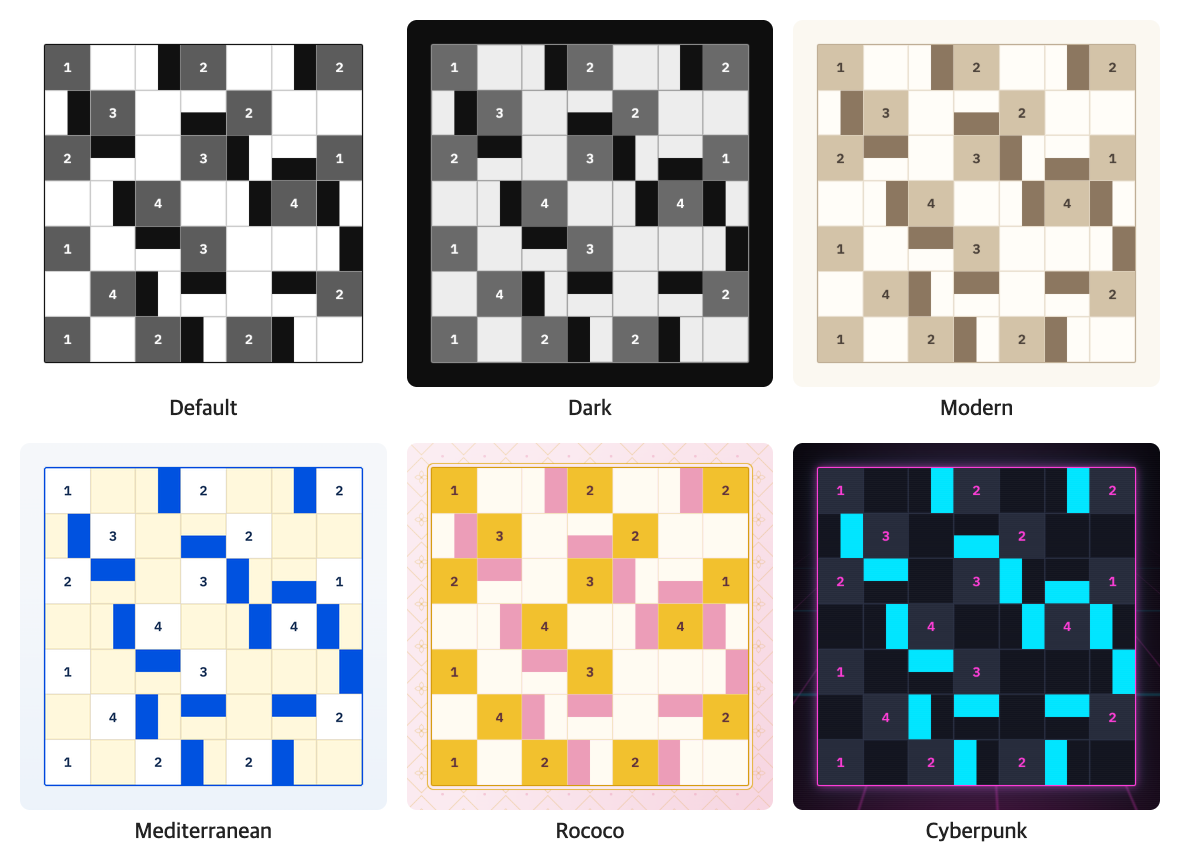
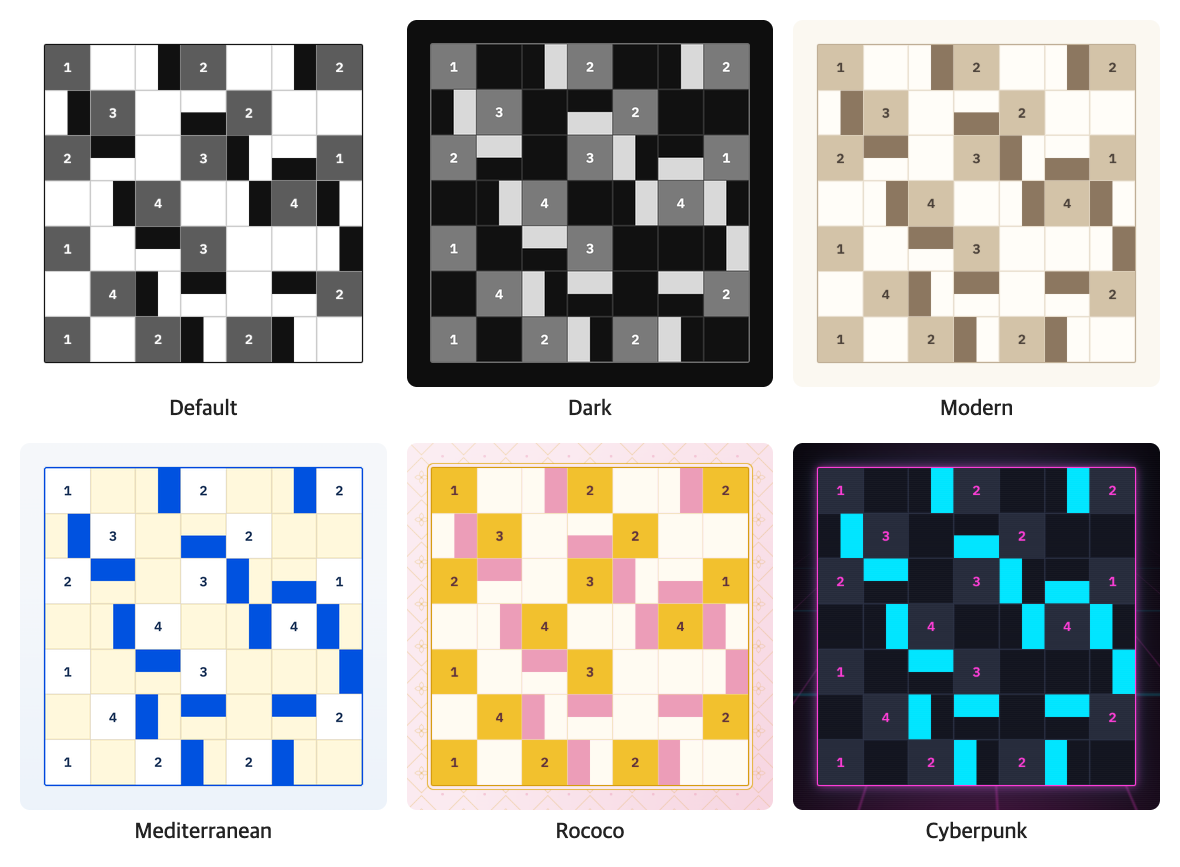
도구 단축키 추가, 규칙·조작법 문구 변경, README 다크 테마 스크린샷 갱신
- 단축키: D/F/G(문·메모 순환), 누른 채 1~4로 개별 도구, L 잠금, E 지우개. 툴팁에 표시
- 규칙 7번(회색 칸은 메모) 추가, 문고리 규칙은 8번으로. 조작법 전체 교체 (14개 언어)
- README: 단축키 표, 규칙 7번, 룸 클릭 설명 갱신 (ko/en/ja)
- themes.png의 다크 테마 칸을 새 색상으로 교체

Changed region(s): [[0.3661, 0.0311, 0.6407, 0.436]]

diff --git a/index.html b/index.html
@@ -440,6 +440,7 @@
     gap:6px;
   }
   .legend li::marker{ color:var(--ink); font-weight:600; }
+  .legend li.shortcut-line{ margin-top:8px; }
   /* ---- start screen ---- */
   .start-card{
     border-bottom:1px solid var(--line);
@@ -2172,13 +2173,16 @@
         '<li><strong>룸의 숫자값</strong>은 상하좌우로 <strong>맞닿은 문의 면적</strong>과 같아야 한다.</li>' +
         '<li>모든 <strong>문</strong>은 반드시 하나 이상의 <strong>룸과 닿아있어야</strong> 한다.</li>' +
         '<li>모든 <strong>문은 다른 문과 닿을 수 없다.</strong></li>' +
-        '<li>모든 빈칸에는 문이 들어가야 한다.</li>',
+        '<li>모든 빈칸에는 문이 들어가야 한다.</li>' +
+        '<li>회색으로 된 칸은 풀이를 위한 표기용 칸으로, \'문\'이 아니다.</li>',
       controlsTitle: '조작법',
       controlsBody:
         '<li>빈칸을 클릭하면 <strong>위 → 아래 → 왼쪽 → 오른쪽 → 빈칸</strong> 순서로 문의 방향이 바뀐다.</li>' +
-        '<li>상단의 문 선택 도구를 이용해 특정 방향의 문을 놓을 수 있다. 지우개를 누르면 선택한 칸의 문을 지울 수 있다.</li>' +
-        '<li>칸을 <strong>우클릭 또는 길게 클릭하면 잠긴다.</strong> 잠긴 칸은 배치가 바뀌지 않는다. 다시 잠금을 시도하면 잠금이 풀린다.</li>' +
-        '<li>회색으로 된 칸은 풀이를 위한 표기용 칸으로, \'문\'이 아니다.</li>',
+        '<li><strong>메모</strong> 도구 <strong>두 종</strong>을 선택하여 칸에 <strong>풀이용 메모</strong>를 남길 수 있다.</li>' +
+        '<li><strong>자물쇠</strong> 도구를 선택하여 칸을 <strong>잠글</strong> 수 있다. <strong>우클릭 또는 길게 클릭</strong>하여 잠그는 것도 가능하다.</li>' +
+        '<li><strong>지우개</strong>를 누르면 선택한 칸의 문을 지울 수 있다.</li>' +
+        '<li><strong>도구창을 열어</strong> 더 다양한 종류의 도구를 선택할 수 있다.</li>' +
+        '<li class="shortcut-line"><strong>단축키: 문 - D&nbsp;&nbsp;&nbsp;메모1 - F&nbsp;&nbsp;&nbsp;메모2 - G&nbsp;&nbsp;&nbsp;잠금 - L&nbsp;&nbsp;&nbsp;지우개 - E</strong></li>',
       modeTitle: '모드',
       modePlain: '문고리 없음',
       modeKnob: '문고리 있음',
@@ -2237,13 +2241,16 @@
         '<li><strong>A room\'s number</strong> must equal the total <strong>door area touching it</strong> above, below, left, and right.</li>' +
         '<li>Every <strong>door</strong> must <strong>touch at least one room</strong>.</li>' +
         '<li><strong>Doors cannot touch other doors.</strong></li>' +
-        '<li>Every empty cell must contain a door.</li>',
+        '<li>Every empty cell must contain a door.</li>' +
+        '<li>Gray marks are notes for solving, not doors.</li>',
       controlsTitle: 'How to play',
       controlsBody:
         '<li>Click an empty cell to cycle the door direction: <strong>Up → Down → Left → Right → Empty</strong>.</li>' +
-        '<li>Use the door tools at the top to place a door facing a specific direction. Pick the eraser to clear the door in a cell you click.</li>' +
-        '<li><strong>Right-click or long-press a cell to lock it.</strong> A locked cell can\'t be changed. Lock it again to unlock.</li>' +
-        '<li>Gray marks are notes for solving, not doors.</li>',
+        '<li>Pick one of the <strong>two note</strong> tools to leave <strong>solving notes</strong> in cells.</li>' +
+        '<li>Pick the <strong>lock</strong> tool to <strong>lock</strong> cells. You can also lock a cell by <strong>right-clicking or long-pressing</strong> it.</li>' +
+        '<li>Pick the <strong>eraser</strong> to clear the door in a cell you click.</li>' +
+        '<li><strong>Open the tool panel</strong> for more kinds of tools.</li>' +
+        '<li class="shortcut-line"><strong>Shortcuts: Door - D&nbsp;&nbsp;&nbsp;Note 1 - F&nbsp;&nbsp;&nbsp;Note 2 - G&nbsp;&nbsp;&nbsp;Lock - L&nbsp;&nbsp;&nbsp;Eraser - E</strong></li>',
       modeTitle: 'Mode',
       modePlain: 'No doorknobs',
       modeKnob: 'With doorknobs',
@@ -2296,9 +2303,9 @@
       themeCyber: "サイバーパンク",
       themeIvory: "モダン",
       rulesTitle: "ルール",
-      rulesBody: "<li>数字が書かれたマスは<strong>「ルーム」</strong>、置くことのできる黒い半マスは<strong>「ドア」</strong>です。</li><li>ルームの配置は変えられません。</li><li><strong>ルームの数字</strong>は、上下左右に<strong>接しているドアの面積</strong>の合計と同じでなければなりません。</li><li>すべての<strong>ドア</strong>は、必ず1つ以上の<strong>ルームに接していなければなりません</strong>。</li><li><strong>ドア同士は接することができません。</strong></li><li>すべての空きマスにドアを置かなければなりません。</li>",
+      rulesBody: "<li>数字が書かれたマスは<strong>「ルーム」</strong>、置くことのできる黒い半マスは<strong>「ドア」</strong>です。</li><li>ルームの配置は変えられません。</li><li><strong>ルームの数字</strong>は、上下左右に<strong>接しているドアの面積</strong>の合計と同じでなければなりません。</li><li>すべての<strong>ドア</strong>は、必ず1つ以上の<strong>ルームに接していなければなりません</strong>。</li><li><strong>ドア同士は接することができません。</strong></li><li>すべての空きマスにドアを置かなければなりません。</li><li>グレーのマスは解答用のメモで、「ドア」ではありません。</li>",
       controlsTitle: "操作方法",
-      controlsBody: "<li>空きマスをクリックすると、<strong>上 → 下 → 左 → 右 → 空白</strong>の順にドアの向きが変わります。</li><li>上部のドアツールで特定の向きのドアを置けます。消しゴムを選ぶと、クリックしたマスのドアを消せます。</li><li>マスを<strong>右クリックまたは長押しするとロックされます。</strong>ロックしたマスは変わりません。もう一度ロックすると解除されます。</li><li>グレーのマスは解答用のメモで、「ドア」ではありません。</li>",
+      controlsBody: "<li>空きマスをクリックすると、<strong>上 → 下 → 左 → 右 → 空白</strong>の順にドアの向きが変わります。</li><li><strong>2種類</strong>の<strong>メモ</strong>ツールで、マスに<strong>解答用のメモ</strong>を残せます。</li><li><strong>鍵</strong>ツールでマスを<strong>ロック</strong>できます。<strong>右クリックまたは長押し</strong>でもロックできます。</li><li><strong>消しゴム</strong>を選ぶと、クリックしたマスのドアを消せます。</li><li><strong>ツール欄を開く</strong>と、さらに多くのツールを選べます。</li><li class=\"shortcut-line\"><strong>ショートカット：ドア - D&nbsp;&nbsp;&nbsp;メモ1 - F&nbsp;&nbsp;&nbsp;メモ2 - G&nbsp;&nbsp;&nbsp;ロック - L&nbsp;&nbsp;&nbsp;消しゴム - E</strong></li>",
       modeTitle: "モード",
       modePlain: "ドアノブなし",
       modeKnob: "ドアノブあり",
@@ -2351,9 +2358,9 @@
       themeCyber: "赛博朋克",
       themeIvory: "现代",
       rulesTitle: "规则",
-      rulesBody: "<li>写有数字的格子是<strong>“房间”</strong>，可以放置的黑色半格是<strong>“门”</strong>。</li><li>房间的位置不能改变。</li><li><strong>房间的数字</strong>必须等于其上下左右<strong>相邻门的面积</strong>之和。</li><li>每一扇<strong>门</strong>都必须<strong>至少与一个房间相邻</strong>。</li><li><strong>门与门不能相邻。</strong></li><li>所有空格都必须放入门。</li>",
+      rulesBody: "<li>写有数字的格子是<strong>“房间”</strong>，可以放置的黑色半格是<strong>“门”</strong>。</li><li>房间的位置不能改变。</li><li><strong>房间的数字</strong>必须等于其上下左右<strong>相邻门的面积</strong>之和。</li><li>每一扇<strong>门</strong>都必须<strong>至少与一个房间相邻</strong>。</li><li><strong>门与门不能相邻。</strong></li><li>所有空格都必须放入门。</li><li>灰色的格子是解题用的标记，不是“门”。</li>",
       controlsTitle: "操作方法",
-      controlsBody: "<li>点击空格，门的方向会按<strong>上 → 下 → 左 → 右 → 空白</strong>的顺序切换。</li><li>使用上方的门工具可以放置指定方向的门。选择橡皮擦后，点击格子即可擦除其中的门。</li><li><strong>右键点击或长按格子即可锁定。</strong>锁定的格子不会被更改。再次锁定即可解锁。</li><li>灰色的格子是解题用的标记，不是“门”。</li>",
+      controlsBody: "<li>点击空格，门的方向会按<strong>上 → 下 → 左 → 右 → 空白</strong>的顺序切换。</li><li>选择<strong>两种标记</strong>工具之一，可在格子中留下<strong>解题标记</strong>。</li><li>选择<strong>锁</strong>工具可以<strong>锁定</strong>格子。也可以<strong>右键点击或长按</strong>格子来锁定。</li><li>选择<strong>橡皮擦</strong>后，点击格子即可擦除其中的门。</li><li><strong>展开工具栏</strong>可以选择更多种类的工具。</li><li class=\"shortcut-line\"><strong>快捷键：门 - D&nbsp;&nbsp;&nbsp;标记1 - F&nbsp;&nbsp;&nbsp;标记2 - G&nbsp;&nbsp;&nbsp;锁定 - L&nbsp;&nbsp;&nbsp;橡皮擦 - E</strong></li>",
       modeTitle: "模式",
       modePlain: "无门把手",
       modeKnob: "有门把手",
@@ -2406,9 +2413,9 @@
       themeCyber: "賽博龐克",
       themeIvory: "現代",
       rulesTitle: "規則",
-      rulesBody: "<li>寫有數字的格子是<strong>「房間」</strong>，可以放置的黑色半格是<strong>「門」</strong>。</li><li>房間的位置不能改變。</li><li><strong>房間的數字</strong>必須等於其上下左右<strong>相鄰門的面積</strong>總和。</li><li>每一扇<strong>門</strong>都必須<strong>至少與一個房間相鄰</strong>。</li><li><strong>門與門不能相鄰。</strong></li><li>所有空格都必須放入門。</li>",
+      rulesBody: "<li>寫有數字的格子是<strong>「房間」</strong>，可以放置的黑色半格是<strong>「門」</strong>。</li><li>房間的位置不能改變。</li><li><strong>房間的數字</strong>必須等於其上下左右<strong>相鄰門的面積</strong>總和。</li><li>每一扇<strong>門</strong>都必須<strong>至少與一個房間相鄰</strong>。</li><li><strong>門與門不能相鄰。</strong></li><li>所有空格都必須放入門。</li><li>灰色的格子是解題用的標記，不是「門」。</li>",
       controlsTitle: "操作方式",
-      controlsBody: "<li>點擊空格，門的方向會依<strong>上 → 下 → 左 → 右 → 空白</strong>的順序切換。</li><li>使用上方的門工具可以放置指定方向的門。選擇橡皮擦後，點擊格子即可擦除其中的門。</li><li><strong>右鍵點擊或長按格子即可鎖定。</strong>鎖定的格子不會被更改。再次鎖定即可解鎖。</li><li>灰色的格子是解題用的標記，不是「門」。</li>",
+      controlsBody: "<li>點擊空格，門的方向會依<strong>上 → 下 → 左 → 右 → 空白</strong>的順序切換。</li><li>選擇<strong>兩種標記</strong>工具之一，可在格子中留下<strong>解題標記</strong>。</li><li>選擇<strong>鎖</strong>工具可以<strong>鎖定</strong>格子。也可以<strong>右鍵點擊或長按</strong>格子來鎖定。</li><li>選擇<strong>橡皮擦</strong>後，點擊格子即可擦除其中的門。</li><li><strong>展開工具列</strong>可以選擇更多種類的工具。</li><li class=\"shortcut-line\"><strong>快速鍵：門 - D&nbsp;&nbsp;&nbsp;標記1 - F&nbsp;&nbsp;&nbsp;標記2 - G&nbsp;&nbsp;&nbsp;鎖定 - L&nbsp;&nbsp;&nbsp;橡皮擦 - E</strong></li>",
       modeTitle: "模式",
       modePlain: "無門把",
       modeKnob: "有門把",
@@ -2461,9 +2468,9 @@
       themeCyber: "Ciberpunk",
       themeIvory: "Moderno",
       rulesTitle: "Reglas",
-      rulesBody: "<li>Una casilla con número es una <strong>Habitación</strong>; una media casilla negra que colocas es una <strong>Puerta</strong>.</li><li>Las habitaciones son fijas y no se pueden cambiar.</li><li><strong>El número de una habitación</strong> debe ser igual al <strong>área total de puertas que la tocan</strong> arriba, abajo, a la izquierda y a la derecha.</li><li>Cada <strong>puerta</strong> debe <strong>tocar al menos una habitación</strong>.</li><li><strong>Las puertas no pueden tocar otras puertas.</strong></li><li>Todas las casillas vacías deben contener una puerta.</li>",
+      rulesBody: "<li>Una casilla con número es una <strong>Habitación</strong>; una media casilla negra que colocas es una <strong>Puerta</strong>.</li><li>Las habitaciones son fijas y no se pueden cambiar.</li><li><strong>El número de una habitación</strong> debe ser igual al <strong>área total de puertas que la tocan</strong> arriba, abajo, a la izquierda y a la derecha.</li><li>Cada <strong>puerta</strong> debe <strong>tocar al menos una habitación</strong>.</li><li><strong>Las puertas no pueden tocar otras puertas.</strong></li><li>Todas las casillas vacías deben contener una puerta.</li><li>Las marcas grises son notas para resolver, no puertas.</li>",
       controlsTitle: "Cómo jugar",
-      controlsBody: "<li>Haz clic en una casilla vacía para cambiar la dirección de la puerta: <strong>Arriba → Abajo → Izquierda → Derecha → Vacía</strong>.</li><li>Usa las herramientas de puerta de arriba para colocar una puerta en una dirección concreta. Elige el borrador para quitar la puerta de la casilla que pulses.</li><li><strong>Haz clic derecho o mantén pulsada una casilla para bloquearla.</strong> Una casilla bloqueada no se puede cambiar. Bloquéala de nuevo para desbloquearla.</li><li>Las marcas grises son notas para resolver, no puertas.</li>",
+      controlsBody: "<li>Haz clic en una casilla vacía para cambiar la dirección de la puerta: <strong>Arriba → Abajo → Izquierda → Derecha → Vacía</strong>.</li><li>Elige una de las <strong>dos</strong> herramientas de <strong>notas</strong> para dejar <strong>notas de resolución</strong> en las casillas.</li><li>Elige la herramienta de <strong>candado</strong> para <strong>bloquear</strong> casillas. También puedes bloquear una casilla con <strong>clic derecho o manteniéndola pulsada</strong>.</li><li>Elige el <strong>borrador</strong> para quitar la puerta de la casilla que pulses.</li><li><strong>Abre el panel de herramientas</strong> para elegir más tipos de herramientas.</li><li class=\"shortcut-line\"><strong>Atajos: Puerta - D&nbsp;&nbsp;&nbsp;Nota 1 - F&nbsp;&nbsp;&nbsp;Nota 2 - G&nbsp;&nbsp;&nbsp;Bloquear - L&nbsp;&nbsp;&nbsp;Borrador - E</strong></li>",
       modeTitle: "Modo",
       modePlain: "Sin pomos",
       modeKnob: "Con pomos",
@@ -2516,9 +2523,9 @@
       themeCyber: "Cyberpunk",
       themeIvory: "Moderne",
       rulesTitle: "Règles",
-      rulesBody: "<li>Une case avec un nombre est une <strong>Pièce</strong> ; une demi-case noire que vous placez est une <strong>Porte</strong>.</li><li>Les pièces sont fixes et ne peuvent pas être modifiées.</li><li><strong>Le nombre d’une pièce</strong> doit être égal à la <strong>surface totale des portes qui la touchent</strong> en haut, en bas, à gauche et à droite.</li><li>Chaque <strong>porte</strong> doit <strong>toucher au moins une pièce</strong>.</li><li><strong>Les portes ne peuvent pas se toucher entre elles.</strong></li><li>Chaque case vide doit contenir une porte.</li>",
+      rulesBody: "<li>Une case avec un nombre est une <strong>Pièce</strong> ; une demi-case noire que vous placez est une <strong>Porte</strong>.</li><li>Les pièces sont fixes et ne peuvent pas être modifiées.</li><li><strong>Le nombre d’une pièce</strong> doit être égal à la <strong>surface totale des portes qui la touchent</strong> en haut, en bas, à gauche et à droite.</li><li>Chaque <strong>porte</strong> doit <strong>toucher au moins une pièce</strong>.</li><li><strong>Les portes ne peuvent pas se toucher entre elles.</strong></li><li>Chaque case vide doit contenir une porte.</li><li>Les marques grises sont des notes pour résoudre, pas des portes.</li>",
       controlsTitle: "Comment jouer",
-      controlsBody: "<li>Cliquez sur une case vide pour changer l’orientation de la porte : <strong>Haut → Bas → Gauche → Droite → Vide</strong>.</li><li>Utilisez les outils de porte en haut pour placer une porte dans une direction précise. Choisissez la gomme pour effacer la porte de la case cliquée.</li><li><strong>Faites un clic droit ou un appui long sur une case pour la verrouiller.</strong> Une case verrouillée ne peut pas être modifiée. Verrouillez-la à nouveau pour la déverrouiller.</li><li>Les marques grises sont des notes pour résoudre, pas des portes.</li>",
+      controlsBody: "<li>Cliquez sur une case vide pour changer l’orientation de la porte : <strong>Haut → Bas → Gauche → Droite → Vide</strong>.</li><li>Choisissez l’un des <strong>deux</strong> outils de <strong>notes</strong> pour laisser des <strong>notes de résolution</strong> dans les cases.</li><li>Choisissez l’outil <strong>cadenas</strong> pour <strong>verrouiller</strong> des cases. Vous pouvez aussi verrouiller une case par un <strong>clic droit ou un appui long</strong>.</li><li>Choisissez la <strong>gomme</strong> pour effacer la porte de la case cliquée.</li><li><strong>Ouvrez le panneau d’outils</strong> pour choisir parmi plus d’outils.</li><li class=\"shortcut-line\"><strong>Raccourcis : Porte - D&nbsp;&nbsp;&nbsp;Note 1 - F&nbsp;&nbsp;&nbsp;Note 2 - G&nbsp;&nbsp;&nbsp;Verrou - L&nbsp;&nbsp;&nbsp;Gomme - E</strong></li>",
       modeTitle: "Mode",
       modePlain: "Sans poignées",
       modeKnob: "Avec poignées",
@@ -2571,9 +2578,9 @@
       themeCyber: "Cyberpunk",
       themeIvory: "Modern",
       rulesTitle: "Regeln",
-      rulesBody: "<li>Ein Feld mit einer Zahl ist ein <strong>Raum</strong>; ein schwarzes Halbfeld, das du setzt, ist eine <strong>Tür</strong>.</li><li>Räume sind fest und können nicht verändert werden.</li><li><strong>Die Zahl eines Raums</strong> muss der <strong>Gesamtfläche der angrenzenden Türen</strong> oben, unten, links und rechts entsprechen.</li><li>Jede <strong>Tür</strong> muss <strong>mindestens einen Raum berühren</strong>.</li><li><strong>Türen dürfen andere Türen nicht berühren.</strong></li><li>Jedes leere Feld muss eine Tür enthalten.</li>",
+      rulesBody: "<li>Ein Feld mit einer Zahl ist ein <strong>Raum</strong>; ein schwarzes Halbfeld, das du setzt, ist eine <strong>Tür</strong>.</li><li>Räume sind fest und können nicht verändert werden.</li><li><strong>Die Zahl eines Raums</strong> muss der <strong>Gesamtfläche der angrenzenden Türen</strong> oben, unten, links und rechts entsprechen.</li><li>Jede <strong>Tür</strong> muss <strong>mindestens einen Raum berühren</strong>.</li><li><strong>Türen dürfen andere Türen nicht berühren.</strong></li><li>Jedes leere Feld muss eine Tür enthalten.</li><li>Graue Markierungen sind Notizen zum Lösen, keine Türen.</li>",
       controlsTitle: "Spielanleitung",
-      controlsBody: "<li>Klicke auf ein leeres Feld, um die Türrichtung zu wechseln: <strong>Oben → Unten → Links → Rechts → Leer</strong>.</li><li>Mit den Türwerkzeugen oben setzt du eine Tür in eine bestimmte Richtung. Wähle den Radierer, um die Tür im angeklickten Feld zu löschen.</li><li><strong>Rechtsklick oder langes Drücken sperrt ein Feld.</strong> Ein gesperrtes Feld kann nicht verändert werden. Erneutes Sperren hebt die Sperre auf.</li><li>Graue Markierungen sind Notizen zum Lösen, keine Türen.</li>",
+      controlsBody: "<li>Klicke auf ein leeres Feld, um die Türrichtung zu wechseln: <strong>Oben → Unten → Links → Rechts → Leer</strong>.</li><li>Mit den <strong>zwei Notizwerkzeugen</strong> hinterlässt du <strong>Lösungsnotizen</strong> in Feldern.</li><li>Mit dem <strong>Schloss</strong>-Werkzeug kannst du Felder <strong>sperren</strong>. Auch <strong>Rechtsklick oder langes Drücken</strong> sperrt ein Feld.</li><li>Wähle den <strong>Radierer</strong>, um die Tür im angeklickten Feld zu löschen.</li><li><strong>Öffne die Werkzeugleiste</strong>, um weitere Werkzeuge zu wählen.</li><li class=\"shortcut-line\"><strong>Tastenkürzel: Tür - D&nbsp;&nbsp;&nbsp;Notiz 1 - F&nbsp;&nbsp;&nbsp;Notiz 2 - G&nbsp;&nbsp;&nbsp;Sperren - L&nbsp;&nbsp;&nbsp;Radierer - E</strong></li>",
       modeTitle: "Modus",
       modePlain: "Ohne Türknäufe",
       modeKnob: "Mit Türknäufen",
@@ -2626,9 +2633,9 @@
       themeCyber: "Cyberpunk",
       themeIvory: "Moderno",
       rulesTitle: "Regras",
-      rulesBody: "<li>Uma casa com número é um <strong>Quarto</strong>; uma meia casa preta que você coloca é uma <strong>Porta</strong>.</li><li>Os quartos são fixos e não podem ser alterados.</li><li><strong>O número de um quarto</strong> deve ser igual à <strong>área total de portas que o tocam</strong> acima, abaixo, à esquerda e à direita.</li><li>Toda <strong>porta</strong> deve <strong>tocar pelo menos um quarto</strong>.</li><li><strong>Portas não podem tocar outras portas.</strong></li><li>Toda casa vazia deve conter uma porta.</li>",
+      rulesBody: "<li>Uma casa com número é um <strong>Quarto</strong>; uma meia casa preta que você coloca é uma <strong>Porta</strong>.</li><li>Os quartos são fixos e não podem ser alterados.</li><li><strong>O número de um quarto</strong> deve ser igual à <strong>área total de portas que o tocam</strong> acima, abaixo, à esquerda e à direita.</li><li>Toda <strong>porta</strong> deve <strong>tocar pelo menos um quarto</strong>.</li><li><strong>Portas não podem tocar outras portas.</strong></li><li>Toda casa vazia deve conter uma porta.</li><li>As marcas cinzas são anotações para resolver, não portas.</li>",
       controlsTitle: "Como jogar",
-      controlsBody: "<li>Clique em uma casa vazia para alternar a direção da porta: <strong>Cima → Baixo → Esquerda → Direita → Vazia</strong>.</li><li>Use as ferramentas de porta no topo para colocar uma porta numa direção específica. Escolha a borracha para apagar a porta da casa clicada.</li><li><strong>Clique com o botão direito ou pressione e segure uma casa para bloqueá-la.</strong> Uma casa bloqueada não pode ser alterada. Bloqueie de novo para desbloquear.</li><li>As marcas cinzas são anotações para resolver, não portas.</li>",
+      controlsBody: "<li>Clique em uma casa vazia para alternar a direção da porta: <strong>Cima → Baixo → Esquerda → Direita → Vazia</strong>.</li><li>Escolha uma das <strong>duas</strong> ferramentas de <strong>anotação</strong> para deixar <strong>anotações de resolução</strong> nas casas.</li><li>Escolha a ferramenta de <strong>cadeado</strong> para <strong>bloquear</strong> casas. Também dá para bloquear com <strong>clique direito ou pressionando e segurando</strong> a casa.</li><li>Escolha a <strong>borracha</strong> para apagar a porta da casa clicada.</li><li><strong>Abra o painel de ferramentas</strong> para escolher mais tipos de ferramentas.</li><li class=\"shortcut-line\"><strong>Atalhos: Porta - D&nbsp;&nbsp;&nbsp;Anotação 1 - F&nbsp;&nbsp;&nbsp;Anotação 2 - G&nbsp;&nbsp;&nbsp;Bloquear - L&nbsp;&nbsp;&nbsp;Borracha - E</strong></li>",
       modeTitle: "Modo",
       modePlain: "Sem maçanetas",
       modeKnob: "Com maçanetas",
@@ -2681,9 +2688,9 @@
       themeCyber: "Киберпанк",
       themeIvory: "Модерн",
       rulesTitle: "Правила",
-      rulesBody: "<li>Клетка с числом — это <strong>Комната</strong>; чёрная полуклетка, которую вы ставите, — это <strong>Дверь</strong>.</li><li>Комнаты зафиксированы, их нельзя изменить.</li><li><strong>Число комнаты</strong> должно быть равно <strong>общей площади дверей, касающихся её</strong> сверху, снизу, слева и справа.</li><li>Каждая <strong>дверь</strong> должна <strong>касаться хотя бы одной комнаты</strong>.</li><li><strong>Двери не могут касаться друг друга.</strong></li><li>В каждой пустой клетке должна быть дверь.</li>",
+      rulesBody: "<li>Клетка с числом — это <strong>Комната</strong>; чёрная полуклетка, которую вы ставите, — это <strong>Дверь</strong>.</li><li>Комнаты зафиксированы, их нельзя изменить.</li><li><strong>Число комнаты</strong> должно быть равно <strong>общей площади дверей, касающихся её</strong> сверху, снизу, слева и справа.</li><li>Каждая <strong>дверь</strong> должна <strong>касаться хотя бы одной комнаты</strong>.</li><li><strong>Двери не могут касаться друг друга.</strong></li><li>В каждой пустой клетке должна быть дверь.</li><li>Серые отметки — это заметки для решения, а не двери.</li>",
       controlsTitle: "Как играть",
-      controlsBody: "<li>Нажмите на пустую клетку, чтобы менять направление двери: <strong>Вверх → Вниз → Влево → Вправо → Пусто</strong>.</li><li>Инструменты дверей вверху ставят дверь в нужном направлении. Выберите ластик, чтобы стереть дверь в нажатой клетке.</li><li><strong>Правый клик или долгое нажатие блокирует клетку.</strong> Заблокированную клетку нельзя изменить. Повторная блокировка снимает её.</li><li>Серые отметки — это заметки для решения, а не двери.</li>",
+      controlsBody: "<li>Нажмите на пустую клетку, чтобы менять направление двери: <strong>Вверх → Вниз → Влево → Вправо → Пусто</strong>.</li><li>Выберите один из <strong>двух</strong> инструментов <strong>заметок</strong>, чтобы оставлять в клетках <strong>заметки для решения</strong>.</li><li>Выберите инструмент <strong>замок</strong>, чтобы <strong>блокировать</strong> клетки. Заблокировать клетку можно и <strong>правым кликом или долгим нажатием</strong>.</li><li>Выберите <strong>ластик</strong>, чтобы стереть дверь в нажатой клетке.</li><li><strong>Откройте панель инструментов</strong>, чтобы выбрать больше инструментов.</li><li class=\"shortcut-line\"><strong>Горячие клавиши: Дверь - D&nbsp;&nbsp;&nbsp;Заметка 1 - F&nbsp;&nbsp;&nbsp;Заметка 2 - G&nbsp;&nbsp;&nbsp;Замок - L&nbsp;&nbsp;&nbsp;Ластик - E</strong></li>",
       modeTitle: "Режим",
       modePlain: "Без ручек",
       modeKnob: "С ручками",
@@ -2736,9 +2743,9 @@
       themeCyber: "Cyberpunk",
       themeIvory: "Moderno",
       rulesTitle: "Regole",
-      rulesBody: "<li>Una casella con un numero è una <strong>Stanza</strong>; una mezza casella nera che posizioni è una <strong>Porta</strong>.</li><li>Le stanze sono fisse e non si possono modificare.</li><li><strong>Il numero di una stanza</strong> deve essere uguale all’<strong>area totale delle porte che la toccano</strong> sopra, sotto, a sinistra e a destra.</li><li>Ogni <strong>porta</strong> deve <strong>toccare almeno una stanza</strong>.</li><li><strong>Le porte non possono toccare altre porte.</strong></li><li>Ogni casella vuota deve contenere una porta.</li>",
+      rulesBody: "<li>Una casella con un numero è una <strong>Stanza</strong>; una mezza casella nera che posizioni è una <strong>Porta</strong>.</li><li>Le stanze sono fisse e non si possono modificare.</li><li><strong>Il numero di una stanza</strong> deve essere uguale all’<strong>area totale delle porte che la toccano</strong> sopra, sotto, a sinistra e a destra.</li><li>Ogni <strong>porta</strong> deve <strong>toccare almeno una stanza</strong>.</li><li><strong>Le porte non possono toccare altre porte.</strong></li><li>Ogni casella vuota deve contenere una porta.</li><li>I segni grigi sono appunti per la risoluzione, non porte.</li>",
       controlsTitle: "Come si gioca",
-      controlsBody: "<li>Fai clic su una casella vuota per cambiare la direzione della porta: <strong>Su → Giù → Sinistra → Destra → Vuota</strong>.</li><li>Usa gli strumenti porta in alto per posizionare una porta in una direzione precisa. Scegli la gomma per cancellare la porta nella casella cliccata.</li><li><strong>Fai clic destro o tieni premuta una casella per bloccarla.</strong> Una casella bloccata non si può modificare. Bloccala di nuovo per sbloccarla.</li><li>I segni grigi sono appunti per la risoluzione, non porte.</li>",
+      controlsBody: "<li>Fai clic su una casella vuota per cambiare la direzione della porta: <strong>Su → Giù → Sinistra → Destra → Vuota</strong>.</li><li>Scegli uno dei <strong>due</strong> strumenti <strong>appunti</strong> per lasciare <strong>appunti di risoluzione</strong> nelle caselle.</li><li>Scegli lo strumento <strong>lucchetto</strong> per <strong>bloccare</strong> le caselle. Puoi bloccare una casella anche con <strong>clic destro o tenendola premuta</strong>.</li><li>Scegli la <strong>gomma</strong> per cancellare la porta nella casella cliccata.</li><li><strong>Apri il pannello strumenti</strong> per scegliere altri tipi di strumenti.</li><li class=\"shortcut-line\"><strong>Scorciatoie: Porta - D&nbsp;&nbsp;&nbsp;Appunto 1 - F&nbsp;&nbsp;&nbsp;Appunto 2 - G&nbsp;&nbsp;&nbsp;Blocco - L&nbsp;&nbsp;&nbsp;Gomma - E</strong></li>",
       modeTitle: "Modalità",
       modePlain: "Senza pomelli",
       modeKnob: "Con pomelli",
@@ -2791,9 +2798,9 @@
       themeCyber: "Cyberpunk",
       themeIvory: "Hiện đại",
       rulesTitle: "Luật chơi",
-      rulesBody: "<li>Ô có số là <strong>Phòng</strong>; nửa ô màu đen bạn đặt vào là <strong>Cửa</strong>.</li><li>Vị trí các phòng cố định, không thể thay đổi.</li><li><strong>Số của một phòng</strong> phải bằng <strong>tổng diện tích cửa chạm vào nó</strong> ở trên, dưới, trái và phải.</li><li>Mỗi <strong>cửa</strong> phải <strong>chạm vào ít nhất một phòng</strong>.</li><li><strong>Các cửa không được chạm vào nhau.</strong></li><li>Mọi ô trống đều phải có cửa.</li>",
+      rulesBody: "<li>Ô có số là <strong>Phòng</strong>; nửa ô màu đen bạn đặt vào là <strong>Cửa</strong>.</li><li>Vị trí các phòng cố định, không thể thay đổi.</li><li><strong>Số của một phòng</strong> phải bằng <strong>tổng diện tích cửa chạm vào nó</strong> ở trên, dưới, trái và phải.</li><li>Mỗi <strong>cửa</strong> phải <strong>chạm vào ít nhất một phòng</strong>.</li><li><strong>Các cửa không được chạm vào nhau.</strong></li><li>Mọi ô trống đều phải có cửa.</li><li>Các dấu màu xám là ghi chú để giải, không phải cửa.</li>",
       controlsTitle: "Cách chơi",
-      controlsBody: "<li>Nhấn vào ô trống để đổi hướng cửa: <strong>Lên → Xuống → Trái → Phải → Trống</strong>.</li><li>Dùng các công cụ cửa ở trên để đặt cửa theo hướng cụ thể. Chọn cục tẩy để xóa cửa trong ô bạn nhấn.</li><li><strong>Nhấp chuột phải hoặc nhấn giữ một ô để khóa.</strong> Ô đã khóa không thể thay đổi. Khóa lại lần nữa để mở khóa.</li><li>Các dấu màu xám là ghi chú để giải, không phải cửa.</li>",
+      controlsBody: "<li>Nhấn vào ô trống để đổi hướng cửa: <strong>Lên → Xuống → Trái → Phải → Trống</strong>.</li><li>Chọn một trong <strong>hai</strong> công cụ <strong>ghi chú</strong> để để lại <strong>ghi chú giải đố</strong> trong ô.</li><li>Chọn công cụ <strong>khóa</strong> để <strong>khóa</strong> ô. Bạn cũng có thể khóa ô bằng cách <strong>nhấp chuột phải hoặc nhấn giữ</strong>.</li><li>Chọn <strong>cục tẩy</strong> để xóa cửa trong ô bạn nhấn.</li><li><strong>Mở bảng công cụ</strong> để chọn thêm nhiều loại công cụ.</li><li class=\"shortcut-line\"><strong>Phím tắt: Cửa - D&nbsp;&nbsp;&nbsp;Ghi chú 1 - F&nbsp;&nbsp;&nbsp;Ghi chú 2 - G&nbsp;&nbsp;&nbsp;Khóa - L&nbsp;&nbsp;&nbsp;Tẩy - E</strong></li>",
       modeTitle: "Chế độ",
       modePlain: "Không tay nắm",
       modeKnob: "Có tay nắm",
@@ -2846,9 +2853,9 @@
       themeCyber: "Cyberpunk",
       themeIvory: "Modern",
       rulesTitle: "Aturan",
-      rulesBody: "<li>Kotak bernomor adalah <strong>Ruangan</strong>; setengah kotak hitam yang kamu pasang adalah <strong>Pintu</strong>.</li><li>Posisi ruangan tetap dan tidak bisa diubah.</li><li><strong>Angka sebuah ruangan</strong> harus sama dengan <strong>total luas pintu yang menyentuhnya</strong> di atas, bawah, kiri, dan kanan.</li><li>Setiap <strong>pintu</strong> harus <strong>menyentuh setidaknya satu ruangan</strong>.</li><li><strong>Pintu tidak boleh menyentuh pintu lain.</strong></li><li>Setiap kotak kosong harus berisi pintu.</li>",
+      rulesBody: "<li>Kotak bernomor adalah <strong>Ruangan</strong>; setengah kotak hitam yang kamu pasang adalah <strong>Pintu</strong>.</li><li>Posisi ruangan tetap dan tidak bisa diubah.</li><li><strong>Angka sebuah ruangan</strong> harus sama dengan <strong>total luas pintu yang menyentuhnya</strong> di atas, bawah, kiri, dan kanan.</li><li>Setiap <strong>pintu</strong> harus <strong>menyentuh setidaknya satu ruangan</strong>.</li><li><strong>Pintu tidak boleh menyentuh pintu lain.</strong></li><li>Setiap kotak kosong harus berisi pintu.</li><li>Tanda abu-abu adalah catatan untuk menyelesaikan, bukan pintu.</li>",
       controlsTitle: "Cara bermain",
-      controlsBody: "<li>Klik kotak kosong untuk mengganti arah pintu: <strong>Atas → Bawah → Kiri → Kanan → Kosong</strong>.</li><li>Gunakan alat pintu di atas untuk memasang pintu ke arah tertentu. Pilih penghapus untuk menghapus pintu di kotak yang diklik.</li><li><strong>Klik kanan atau tekan lama sebuah kotak untuk menguncinya.</strong> Kotak yang terkunci tidak bisa diubah. Kunci lagi untuk membukanya.</li><li>Tanda abu-abu adalah catatan untuk menyelesaikan, bukan pintu.</li>",
+      controlsBody: "<li>Klik kotak kosong untuk mengganti arah pintu: <strong>Atas → Bawah → Kiri → Kanan → Kosong</strong>.</li><li>Pilih salah satu dari <strong>dua</strong> alat <strong>catatan</strong> untuk meninggalkan <strong>catatan penyelesaian</strong> di kotak.</li><li>Pilih alat <strong>gembok</strong> untuk <strong>mengunci</strong> kotak. Kamu juga bisa mengunci kotak dengan <strong>klik kanan atau tekan lama</strong>.</li><li>Pilih <strong>penghapus</strong> untuk menghapus pintu di kotak yang diklik.</li><li><strong>Buka panel alat</strong> untuk memilih lebih banyak jenis alat.</li><li class=\"shortcut-line\"><strong>Pintasan: Pintu - D&nbsp;&nbsp;&nbsp;Catatan 1 - F&nbsp;&nbsp;&nbsp;Catatan 2 - G&nbsp;&nbsp;&nbsp;Kunci - L&nbsp;&nbsp;&nbsp;Penghapus - E</strong></li>",
       modeTitle: "Mode",
       modePlain: "Tanpa gagang pintu",
       modeKnob: "Dengan gagang pintu",
@@ -2901,9 +2908,9 @@
       themeCyber: "ไซเบอร์พังก์",
       themeIvory: "โมเดิร์น",
       rulesTitle: "กติกา",
-      rulesBody: "<li>ช่องที่มีตัวเลขคือ <strong>ห้อง</strong> ส่วนครึ่งช่องสีดำที่คุณวางคือ <strong>ประตู</strong></li><li>ตำแหน่งของห้องคงที่และเปลี่ยนไม่ได้</li><li><strong>ตัวเลขของห้อง</strong>ต้องเท่ากับ<strong>พื้นที่รวมของประตูที่แตะห้องนั้น</strong>ทั้งด้านบน ล่าง ซ้าย และขวา</li><li><strong>ประตู</strong>ทุกบานต้อง<strong>แตะห้องอย่างน้อยหนึ่งห้อง</strong></li><li><strong>ประตูแตะกับประตูอื่นไม่ได้</strong></li><li>ทุกช่องว่างต้องมีประตู</li>",
+      rulesBody: "<li>ช่องที่มีตัวเลขคือ <strong>ห้อง</strong> ส่วนครึ่งช่องสีดำที่คุณวางคือ <strong>ประตู</strong></li><li>ตำแหน่งของห้องคงที่และเปลี่ยนไม่ได้</li><li><strong>ตัวเลขของห้อง</strong>ต้องเท่ากับ<strong>พื้นที่รวมของประตูที่แตะห้องนั้น</strong>ทั้งด้านบน ล่าง ซ้าย และขวา</li><li><strong>ประตู</strong>ทุกบานต้อง<strong>แตะห้องอย่างน้อยหนึ่งห้อง</strong></li><li><strong>ประตูแตะกับประตูอื่นไม่ได้</strong></li><li>ทุกช่องว่างต้องมีประตู</li><li>เครื่องหมายสีเทาเป็นโน้ตสำหรับช่วยแก้ ไม่ใช่ประตู</li>",
       controlsTitle: "วิธีเล่น",
-      controlsBody: "<li>คลิกช่องว่างเพื่อเปลี่ยนทิศประตู: <strong>บน → ล่าง → ซ้าย → ขวา → ว่าง</strong></li><li>ใช้เครื่องมือประตูด้านบนเพื่อวางประตูในทิศที่ต้องการ เลือกยางลบเพื่อลบประตูในช่องที่คลิก</li><li><strong>คลิกขวาหรือกดค้างที่ช่องเพื่อล็อก</strong> ช่องที่ล็อกแล้วจะเปลี่ยนไม่ได้ ล็อกซ้ำอีกครั้งเพื่อปลดล็อก</li><li>เครื่องหมายสีเทาเป็นโน้ตสำหรับช่วยแก้ ไม่ใช่ประตู</li>",
+      controlsBody: "<li>คลิกช่องว่างเพื่อเปลี่ยนทิศประตู: <strong>บน → ล่าง → ซ้าย → ขวา → ว่าง</strong></li><li>เลือกเครื่องมือ<strong>โน้ต 2 แบบ</strong>เพื่อจด<strong>โน้ตช่วยแก้</strong>ไว้ในช่อง</li><li>เลือกเครื่องมือ<strong>แม่กุญแจ</strong>เพื่อ<strong>ล็อก</strong>ช่อง หรือ<strong>คลิกขวาหรือกดค้าง</strong>ที่ช่องเพื่อล็อกก็ได้</li><li>เลือก<strong>ยางลบ</strong>เพื่อลบประตูในช่องที่คลิก</li><li><strong>เปิดแผงเครื่องมือ</strong>เพื่อเลือกเครื่องมือได้หลากหลายขึ้น</li><li class=\"shortcut-line\"><strong>ปุ่มลัด: ประตู - D&nbsp;&nbsp;&nbsp;โน้ต 1 - F&nbsp;&nbsp;&nbsp;โน้ต 2 - G&nbsp;&nbsp;&nbsp;ล็อก - L&nbsp;&nbsp;&nbsp;ยางลบ - E</strong></li>",
       modeTitle: "โหมด",
       modePlain: "ไม่มีลูกบิด",
       modeKnob: "มีลูกบิด",
@@ -2953,7 +2960,9 @@
     document.querySelectorAll('[data-i18n]').forEach(el => { el.innerHTML = t(el.dataset.i18n); });
     renderRules();
     document.querySelectorAll('[data-i18n-title]').forEach(el => {
-      el.title = t(el.dataset.i18nTitle);
+      const shortcut = el.classList.contains('tool-btn')
+        && TOOL_SHORTCUT_LABELS[el.id === 'lockModeBtn' ? 'lock' : el.dataset.dir];
+      el.title = t(el.dataset.i18nTitle) + (shortcut ? ' [' + shortcut + ']' : '');
       el.setAttribute('aria-label', el.title);
     });
   }
@@ -3460,6 +3469,58 @@
     e.preventDefault();
     undo();
   });
+
+  // Tool shortcuts: a letter picks its row's cycle tool, and holding the letter while
+  // pressing 1-4 picks that row's specific tool. Keys are matched by e.code so they work
+  // whatever the keyboard layout or IME (e.g. Korean input) is.
+  const TOOL_KEYS = {
+    KeyD: ['cycle-door', 'up', 'down', 'left', 'right'],
+    KeyF: ['cycle-mark', 'q-tl', 'q-tr', 'q-bl', 'q-br'],
+    KeyG: ['cycle-strip', 's-up', 's-down', 's-left', 's-right']
+  };
+  // shortcut labels shown in the tool buttons' tooltips, by tool (data-dir) or 'lock'
+  const TOOL_SHORTCUT_LABELS = {erase: 'E', lock: 'L'};
+  Object.entries(TOOL_KEYS).forEach(([code, tools]) => {
+    const letter = code.slice(3);
+    tools.forEach((tool, k) => { TOOL_SHORTCUT_LABELS[tool] = k ? letter + ' + ' + k : letter; });
+  });
+  let heldToolKey = null;
+
+  // a shortcut picking a tool hidden by the folded palette unfolds it first
+  function selectToolByKey(tool){
+    const btn = document.querySelector(`.tool-btn[data-dir="${tool}"]`);
+    if(toolsCollapsed && btn && !btn.classList.contains('compact-keep')) toggleToolsCollapsed();
+    selectTool(tool);
+  }
+
+  document.addEventListener('keydown', (e) => {
+    if(e.ctrlKey || e.metaKey || e.altKey) return;
+    if(settingsOpen() || state.phase !== 'game' || state.viewMode !== 'play') return;
+    if(e.target.closest && e.target.closest('input, textarea, select')) return;
+    const digit = /^(Digit|Numpad)([1-4])$/.exec(e.code);
+    if(digit){
+      if(!heldToolKey) return;
+      e.preventDefault();
+      selectToolByKey(TOOL_KEYS[heldToolKey][Number(digit[2])]);
+      return;
+    }
+    if(e.repeat) return;
+    if(TOOL_KEYS[e.code]){
+      heldToolKey = e.code;
+      selectToolByKey(TOOL_KEYS[e.code][0]);
+    } else if(e.code === 'KeyE'){
+      selectTool('erase');
+    } else if(e.code === 'KeyL'){
+      toggleLockMode();
+    } else {
+      return;
+    }
+    e.preventDefault();
+  });
+  document.addEventListener('keyup', (e) => {
+    if(e.code === heldToolKey) heldToolKey = null;
+  });
+  window.addEventListener('blur', () => { heldToolKey = null; });
 
   // ---- solve timer: runs from the moment the puzzle appears until it's submitted ----
   const timer = {start: 0, elapsed: 0, running: false, tick: null};

diff --git a/README.ja.md b/README.ja.md
@@ -19,6 +19,7 @@
 4. すべてのドアは、必ず**1つ以上のルームに接して**いなければなりません。
 5. **ドア同士は接することができません。**
 6. すべての空きマスにドアを置かなければなりません。
+7. グレーのマスは解答用のメモで、ドアではありません。
 
 ### 解き方の例
 
@@ -55,12 +56,24 @@
 | 空きマスをクリック | 上 → 下 → 左 → 右 → 空白の順にドアの向きが変わる |
 | ツールを選んでクリック/ドラッグ | 選んだ向きのドアを1マスまたは複数マスに配置 |
 | 右クリック・長押し | マスのロック/解除（右ドラッグで複数マスを一度に） |
-| ルームをクリック | 置き方が1通りしかない隣接マスを自動で埋める |
+| ルームをクリック | 数字を薄く表示し、置き方が1通りしかない隣接マスがあれば自動で埋める（もう一度クリックで数字を戻す） |
 | 盤面外の数字をクリック | グレー表示の切り替え |
 | `Ctrl + Z` | 元に戻す |
 
 グレーのマス（1/4マス・線のメモ）は解答用のメモで、正誤判定には含まれません。
 ロックしたマスは赤い枠で表示されます。
+
+### ショートカットキー
+
+文字キーだけを押すとその列の切替ツール、文字キーを押したまま数字キーを押すと個別のツールを選びます。
+
+| キー | ツール | `+ 1` | `+ 2` | `+ 3` | `+ 4` |
+| --- | --- | --- | --- | --- | --- |
+| `D` | ドア（4方向切替） | 上 | 下 | 左 | 右 |
+| `F` | 1/4マスメモ（4方向切替） | 左上 | 右上 | 左下 | 右下 |
+| `G` | 線メモ（4方向切替） | 上 | 下 | 左 | 右 |
+| `L` | ロック | | | | |
+| `E` | 消しゴム | | | | |
 
 ### 判定
 

diff --git a/README.md b/README.md
@@ -19,6 +19,7 @@
 4. 모든 문은 반드시 **하나 이상의 룸과 닿아** 있어야 합니다.
 5. 문은 **다른 문과 닿을 수 없습니다.**
 6. 모든 빈칸에는 문이 들어가야 합니다.
+7. 회색으로 된 칸은 풀이를 위한 표기용 칸으로, 문이 아닙니다.
 
 ### 풀이 예시
 
@@ -55,12 +56,24 @@
 | 빈칸 클릭 | 위 → 아래 → 왼쪽 → 오른쪽 → 빈칸 순서로 문 방향 변경 |
 | 도구 선택 후 클릭/드래그 | 원하는 방향의 문을 한 칸 또는 여러 칸에 배치 |
 | 우클릭 · 길게 누르기 | 칸 잠금/해제 (우클릭 드래그로 여러 칸 한 번에) |
-| 룸 클릭 | 경우의 수가 하나뿐인 인접 칸 자동 채우기 |
+| 룸 클릭 | 숫자를 옅게 표시하고, 경우의 수가 하나뿐인 인접 칸이 있으면 자동 채우기 (다시 클릭하면 숫자 복원) |
 | 행렬 밖 숫자 클릭 | 회색 표시 토글 |
 | `Ctrl + Z` | 실행 취소 |
 
 회색 칸(1/4칸 표시, 줄 표시)은 풀이용 메모이며 정답 판정에 포함되지 않습니다.
 잠긴 칸은 빨간 테두리로 표시됩니다.
+
+### 단축키
+
+글자 키만 누르면 그 줄의 순환 도구가, 글자 키를 누른 채 숫자 키를 누르면 해당 도구가 선택됩니다.
+
+| 키 | 도구 | `+ 1` | `+ 2` | `+ 3` | `+ 4` |
+| --- | --- | --- | --- | --- | --- |
+| `D` | 문 (4방향 순환) | 위 | 아래 | 왼쪽 | 오른쪽 |
+| `F` | 1/4칸 메모 (4방향 순환) | 좌상단 | 우상단 | 좌하단 | 우하단 |
+| `G` | 줄 메모 (4방향 순환) | 위 | 아래 | 왼쪽 | 오른쪽 |
+| `L` | 잠금 | | | | |
+| `E` | 지우개 | | | | |
 
 ### 채점
 

diff --git a/README.en.md b/README.en.md
@@ -19,6 +19,7 @@ No installation needed — play it right in your browser.
 4. Every door must **touch at least one room**.
 5. **Doors cannot touch other doors.**
 6. Every empty cell must contain a door.
+7. Gray marks are notes for solving, not doors.
 
 ### Example
 
@@ -55,12 +56,24 @@ Click a number to gray it out once you've dealt with it.
 | Click an empty cell | Cycle the door: Up → Down → Left → Right → Empty |
 | Pick a tool, then click/drag | Place a door facing that way on one or many cells |
 | Right-click · long-press | Lock/unlock a cell (right-drag to lock many at once) |
-| Click a room | Auto-fill neighbors that have only one possible door |
+| Click a room | Fade its number, auto-filling any neighbors that have only one possible door (click again to restore the number) |
 | Click a number outside the grid | Toggle gray-out |
 | `Ctrl + Z` | Undo |
 
 Gray marks (quarter-cell and strip notes) are for solving and aren't checked as part of the answer.
 Locked cells have a red border.
+
+### Keyboard shortcuts
+
+A letter key alone picks that row's cycle tool; hold the letter and press a number to pick a specific tool.
+
+| Key | Tool | `+ 1` | `+ 2` | `+ 3` | `+ 4` |
+| --- | --- | --- | --- | --- | --- |
+| `D` | Door (cycles 4 directions) | Up | Down | Left | Right |
+| `F` | Quarter-cell note (cycles 4 corners) | Top-left | Top-right | Bottom-left | Bottom-right |
+| `G` | Strip note (cycles 4 sides) | Top | Bottom | Left | Right |
+| `L` | Lock | | | | |
+| `E` | Eraser | | | | |
 
 ### Checking
 
